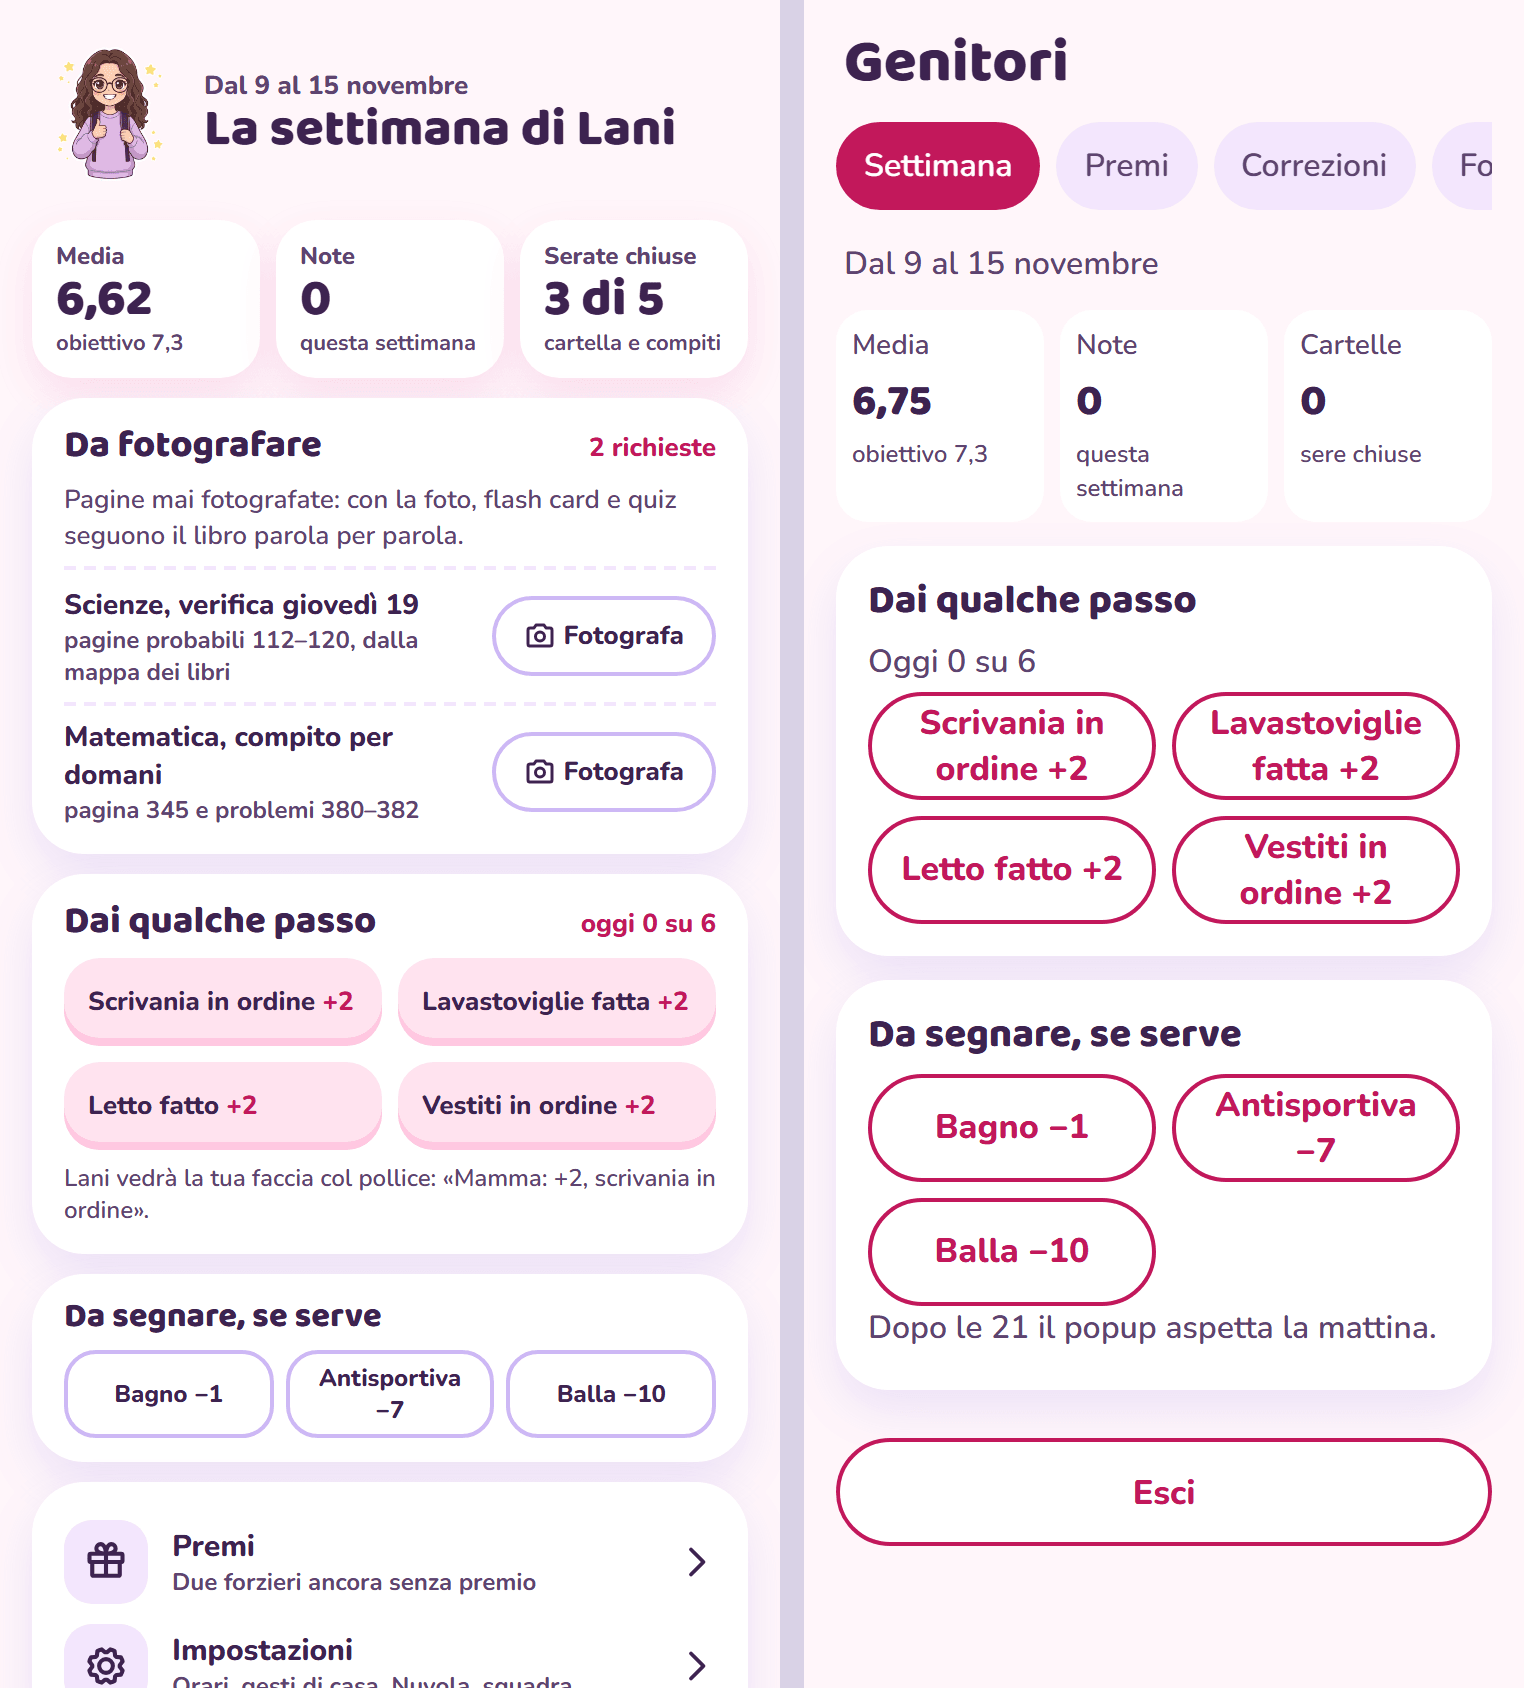
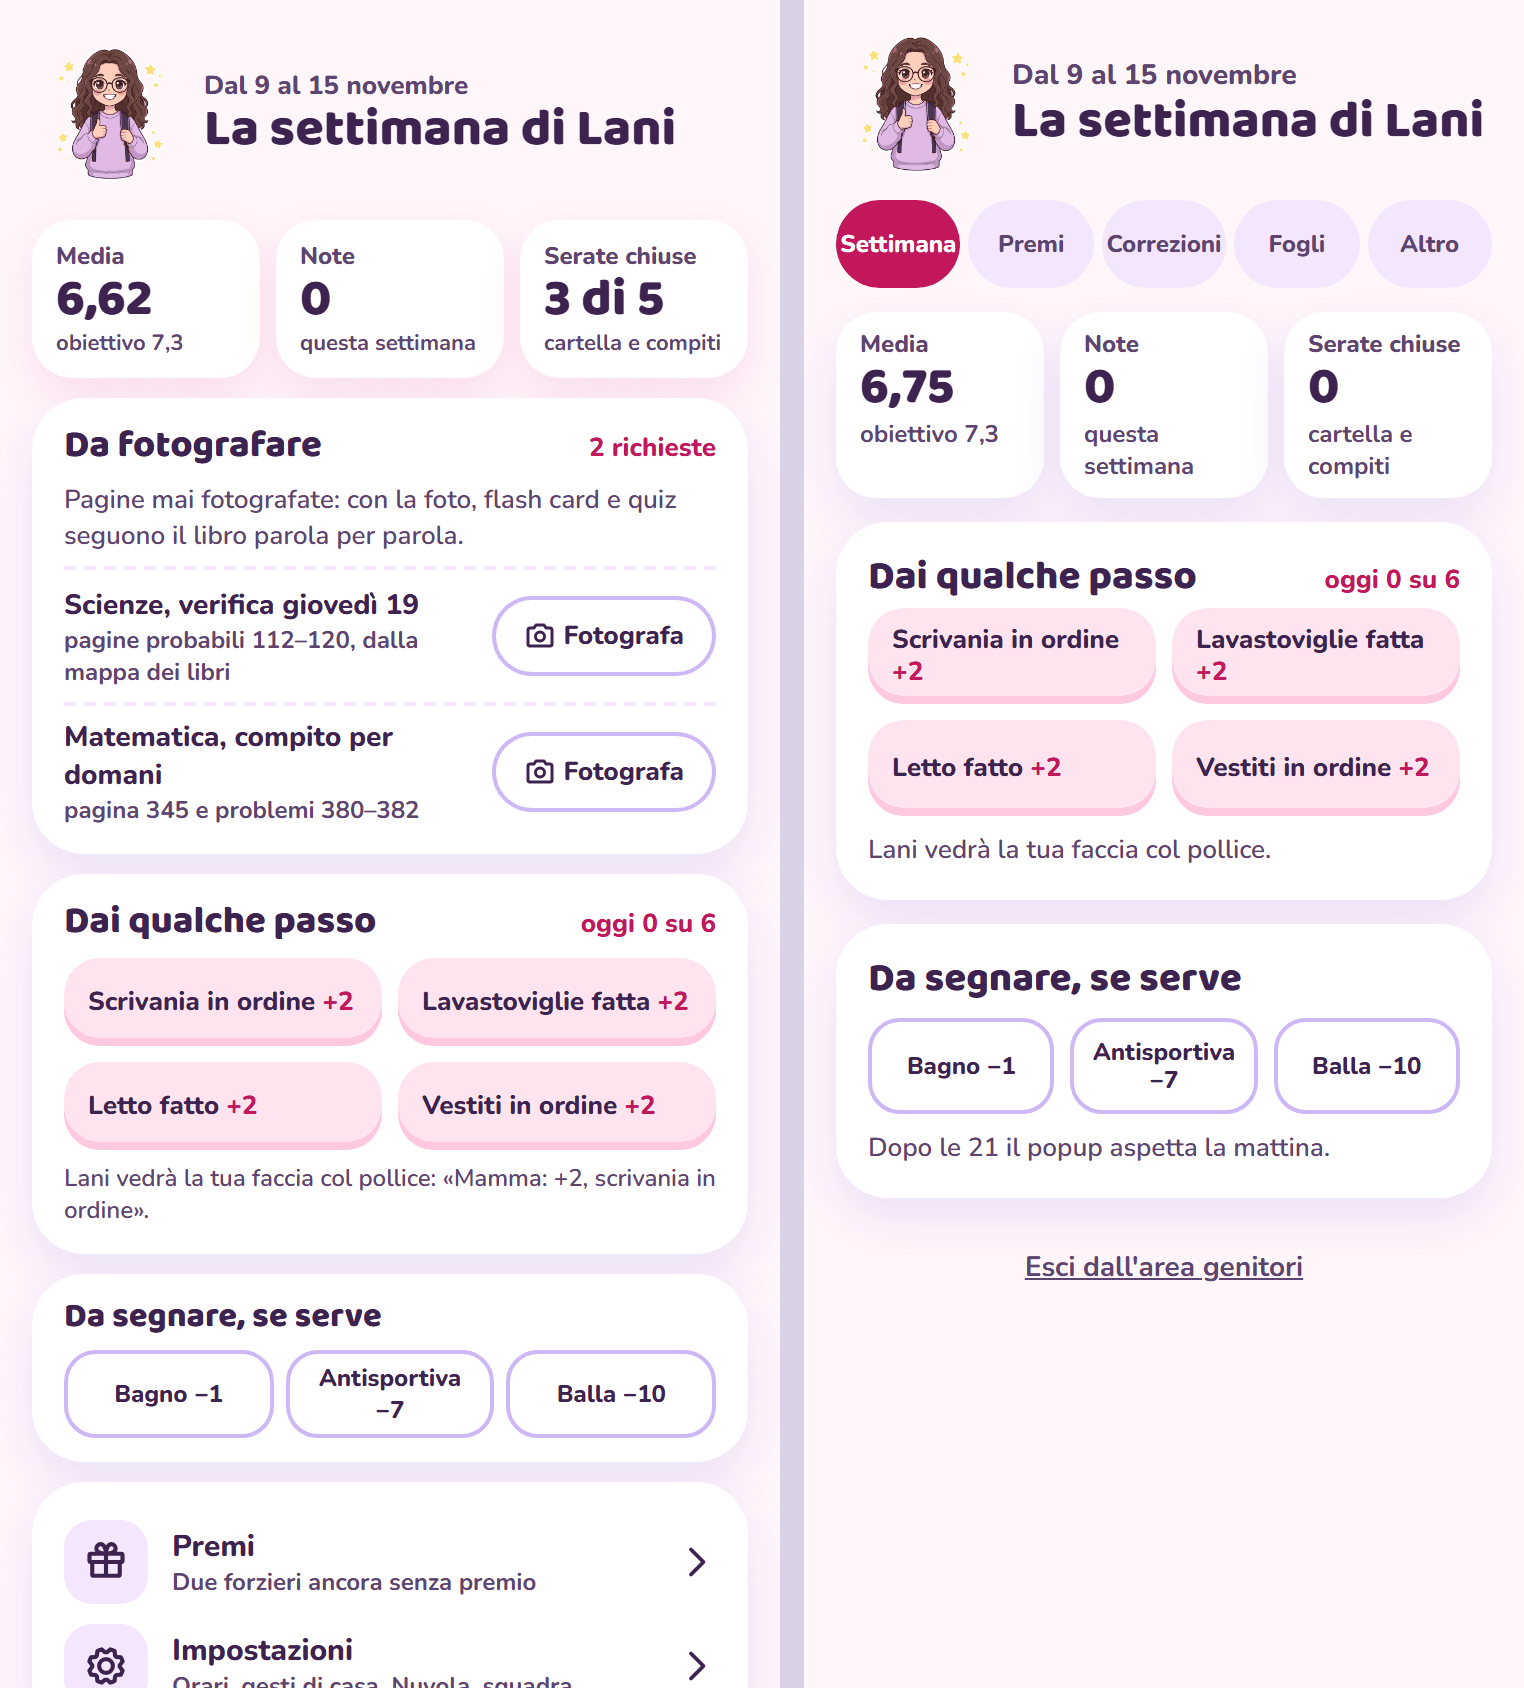
Revisione UI 5 (Genitori): testata, schede, gesti e sgridate, foglio dell'app
- testata del kit: Lani contenta, date della settimana, 'La settimana
  di Lani' (o il nome della sezione)
- 4 schede più 'Altro' (Impostazioni e Vetrina come righe di elenco),
  tutte visibili anche a 360 px
- gesti rosa pieni con il +2 in fucsia, sgridate lilla contornate su tre
  colonne: non si confondono più
- 'Balla', le altre sgridate e 'Togli' delle correzioni con un foglio
  dell'app (<dialog>) al posto di prompt e confirm del browser; Segna
  spento finché il testo della balla è vuoto
- numeri della settimana compatti come la bozza ('Serate chiuse');
  'Esci dall'area genitori' come link

diff --git a/src/Genitori.tsx b/src/Genitori.tsx
@@ -1,4 +1,6 @@
-import { useEffect, useState, type FormEvent } from 'react';
+import { useEffect, useRef, useState, type FormEvent } from 'react';
+import { CaretRight, Eye, GearSix } from '@phosphor-icons/react';
+import { Riquadro, Sticker } from './kit';
 import type { SupabaseClient } from '@supabase/supabase-js';
 import * as R from './lib/regole';
 import { installata } from './Benvenuta';
@@ -10,7 +12,24 @@ import Vetrina from './Vetrina';
 // come genitore e la funzione "passi" decide i passi come per Lani.
 // ponytail: "Da fotografare" (richieste di foto e Storage) è ancora da fare.
 
-type Pagina = 'settimana' | 'premi' | 'correzioni' | 'fogli' | 'impostazioni' | 'vetrina';
+type Pagina = 'settimana' | 'premi' | 'correzioni' | 'fogli' | 'altro' | 'impostazioni' | 'vetrina';
+/** Quattro schede più "Altro" (Impostazioni e Vetrina stanno lì dentro). */
+const SCHEDE: [Pagina, string][] = [
+  ['settimana', 'Settimana'],
+  ['premi', 'Premi'],
+  ['correzioni', 'Correzioni'],
+  ['fogli', 'Fogli'],
+  ['altro', 'Altro'],
+];
+const TITOLI: Record<Pagina, string> = {
+  settimana: 'La settimana di Lani',
+  premi: 'Premi dei forzieri',
+  correzioni: 'Correzioni',
+  fogli: 'Fogli da firmare',
+  altro: 'Altro',
+  impostazioni: 'Impostazioni',
+  vetrina: 'Vetrina',
+};
 const VOCI_GESTI = [
   ['scrivania', 'Scrivania in ordine'],
   ['lavastoviglie', 'Lavastoviglie fatta'],
@@ -54,13 +73,26 @@ export default function Genitori({ client, esci }: { client: SupabaseClient; esc
       />
     );
 
+  const oggi = R.giornoRoma(new Date());
+  const lun = R.lunedi(oggi);
+  const dom = new Date(lun.getFullYear(), lun.getMonth(), lun.getDate() + 6);
+  const vai = (p: Pagina) => (setPagina(p), setAvviso(''));
+  const scheda = pagina === 'impostazioni' || pagina === 'vetrina' ? 'altro' : pagina;
   return (
     <section className="sera genitori">
-      <h1>Genitori</h1>
+      <header className="testa-genitori">
+        <Sticker posa="lani-contenta" misura={72} />
+        <div>
+          <p className="sopratitolo">
+            Dal {lun.getDate()} al {dom.getDate()} {MESI[dom.getMonth()]}
+          </p>
+          <h1>{TITOLI[pagina]}</h1>
+        </div>
+      </header>
       <nav className="schede" aria-label="Sezioni genitori">
-        {(['settimana', 'premi', 'correzioni', 'fogli', 'impostazioni', 'vetrina'] as Pagina[]).map((p) => (
-          <button key={p} aria-current={p === pagina ? 'page' : undefined} onClick={() => (setPagina(p), setAvviso(''))}>
-            {p.replace(/^./, (c) => c.toUpperCase())}
+        {SCHEDE.map(([p, nome]) => (
+          <button key={p} aria-current={p === scheda ? 'page' : undefined} onClick={() => vai(p)}>
+            {nome}
           </button>
         ))}
       </nav>
@@ -69,14 +101,85 @@ export default function Genitori({ client, esci }: { client: SupabaseClient; esc
       {pagina === 'premi' && <Premi {...props} />}
       {pagina === 'correzioni' && <Correzioni {...props} />}
       {pagina === 'fogli' && <Fogli {...props} />}
+      {pagina === 'altro' && <Altro vai={vai} />}
       {pagina === 'impostazioni' && <Impostazioni {...props} />}
       {pagina === 'vetrina' && <Vetrina />}
-      <button className="secondario" onClick={esci}>Esci</button>
+      <button className="link esci" onClick={esci}>
+        Esci dall'area genitori
+      </button>
     </section>
   );
 }
 
 type Props = { client: SupabaseClient; passi: (tipo: string, id: string) => Promise<number>; avvisa: (s: string) => void };
+
+/** "Altro": Impostazioni e Vetrina, come le righe della bozza. */
+function Altro({ vai }: { vai: (p: Pagina) => void }) {
+  const righe: [Pagina, string, string, typeof GearSix][] = [
+    ['impostazioni', 'Impostazioni', 'Orari, materiale, PIN', GearSix],
+    ['vetrina', 'Vetrina', 'Popup, animazioni e notifiche, come li vede Lani', Eye],
+  ];
+  return (
+    <div className="carta elenco">
+      {righe.map(([p, nome, testo, Icona]) => (
+        <button key={p} className="riga-elenco" onClick={() => vai(p)}>
+          <Riquadro colore="lilla">
+            <Icona size={24} weight="bold" aria-hidden />
+          </Riquadro>
+          <span>
+            <b>{nome}</b>
+            <small>{testo}</small>
+          </span>
+          <CaretRight size={20} weight="bold" aria-hidden />
+        </button>
+      ))}
+    </div>
+  );
+}
+
+/** Foglio dell'app al posto di confirm/prompt del browser: conferma, con un campo di testo se serve. */
+function FoglioApp({ titolo, testo, campo, azione = 'Segna', conferma, chiudi }: { titolo: string; testo: string; campo?: string; azione?: string; conferma: (nota: string | null) => void; chiudi: () => void }) {
+  const ref = useRef<HTMLDialogElement>(null);
+  const [nota, setNota] = useState('');
+  useEffect(() => {
+    if (ref.current && !ref.current.open) ref.current.showModal?.();
+  }, []);
+  return (
+    <dialog
+      ref={ref}
+      className="velo foglio-app"
+      aria-labelledby="foglio-titolo"
+      onCancel={(e) => {
+        e.preventDefault();
+        chiudi();
+      }}
+    >
+      <form
+        className="carta modulo"
+        onSubmit={(e) => {
+          e.preventDefault();
+          if (campo && !nota.trim()) return;
+          conferma(campo ? nota.trim() : null);
+        }}
+      >
+        <h2 id="foglio-titolo">{titolo}</h2>
+        <p>{testo}</p>
+        {campo && (
+          <label>
+            {campo}
+            <textarea rows={3} value={nota} onChange={(e) => setNota(e.target.value)} autoFocus />
+          </label>
+        )}
+        <button className="principale" disabled={!!campo && !nota.trim()}>
+          {azione}
+        </button>
+        <button type="button" className="link" onClick={chiudi}>
+          Annulla
+        </button>
+      </form>
+    </dialog>
+  );
+}
 
 function Settimana({ client, passi, avvisa }: Props) {
   const oggi = R.giornoRoma(new Date());
@@ -113,12 +216,9 @@ function Settimana({ client, passi, avvisa }: Props) {
     carica();
   }
 
-  async function sgrida(tipo: string, nome: string) {
-    let nota: string | null = null;
-    if (tipo === 'balla') {
-      nota = window.prompt('Che cosa ha detto di non vero? (lo legge Lani)');
-      if (!nota) return;
-    } else if (!window.confirm(`Segnare "${nome}"? Lani perde passi e vede il popup.`)) return;
+  const [chiede, setChiede] = useState<{ tipo: R.TipoSgridata; nome: string }>();
+  async function sgrida(tipo: string, nome: string, nota: string | null) {
+    setChiede(undefined);
     const { data, error } = await client.from('sgridate').insert({ tipo, nota }).select('id').single();
     if (error || !data) return avvisa('Non salvato. Riprova.');
     const p = await passi('sgridata', data.id);
@@ -130,9 +230,6 @@ function Settimana({ client, passi, avvisa }: Props) {
   const tetto = R.CONFIG.passi.gesti_casa.tetto_giornaliero;
   return (
     <>
-      <p className="nota">
-        Dal {lun.getDate()} al {dom.getDate()} {MESI[dom.getMonth()]}
-      </p>
       <dl className="numeri">
         <div>
           <dt>Media</dt>
@@ -145,35 +242,47 @@ function Settimana({ client, passi, avvisa }: Props) {
           <dt>questa settimana</dt>
         </div>
         <div>
-          <dt>Cartelle</dt>
+          <dt>Serate chiuse</dt>
           <dd>{d.serate}</dd>
-          <dt>sere chiuse</dt>
+          <dt>cartella e compiti</dt>
         </div>
       </dl>
       <div className="carta">
-        <h2>Dai qualche passo</h2>
-        <p className="nota">
-          Oggi {d.gestiOggi} su {tetto}
-        </p>
+        <div className="testa-carta">
+          <h2>Dai qualche passo</h2>
+          <span className="valore">
+            oggi {d.gestiOggi} su {tetto}
+          </span>
+        </div>
         <div className="griglia">
           {VOCI_GESTI.map(([v, nome]) => (
-            <button key={v} className="secondario" disabled={d.gestiOggi >= tetto} onClick={() => gesto(v, nome)}>
-              {nome} +{R.CONFIG.passi.gesti_casa.voci[v]}
+            <button key={v} className="gesto" disabled={d.gestiOggi >= tetto} onClick={() => gesto(v, nome)}>
+              {nome} <span>+{R.CONFIG.passi.gesti_casa.voci[v]}</span>
             </button>
           ))}
         </div>
+        <p className="nota piccola">Lani vedrà la tua faccia col pollice.</p>
       </div>
       <div className="carta">
         <h2>Da segnare, se serve</h2>
-        <div className="griglia">
+        <div className="griglia tre">
           {SGRIDATE.map(([t, nome]) => (
-            <button key={t} className="secondario" onClick={() => sgrida(t, nome)}>
+            <button key={t} className="sgridata" onClick={() => setChiede({ tipo: t, nome })}>
               {nome} {String(R.passiSgridata(t)).replace('-', '−')}
             </button>
           ))}
         </div>
-        <p className="nota">Dopo le 21 il popup aspetta la mattina.</p>
+        <p className="nota piccola">Dopo le 21 il popup aspetta la mattina.</p>
       </div>
+      {chiede && (
+        <FoglioApp
+          titolo={`${chiede.nome} ${String(R.passiSgridata(chiede.tipo)).replace('-', '−')}`}
+          testo={chiede.tipo === 'balla' ? 'Scrivi che cosa ha detto di non vero: Lani lo leggerà nel popup.' : 'Lani perde i passi e vede il popup.'}
+          campo={chiede.tipo === 'balla' ? 'Che cosa non era vero' : undefined}
+          conferma={(nota) => sgrida(chiede.tipo, chiede.nome, nota)}
+          chiudi={() => setChiede(undefined)}
+        />
+      )}
     </>
   );
 }
@@ -273,8 +382,9 @@ function Correzioni({ client, avvisa }: Props) {
     carica();
   }, []);
 
+  const [chiede, setChiede] = useState<Spuntato>();
   async function togli(c: Spuntato) {
-    if (!window.confirm('Togliere la spunta? Lani perde i passi di questo compito e vede chi l’ha corretta.')) return;
+    setChiede(undefined);
     const { data: stornato, error } = await client.rpc('storna_spunta', { p_motivo: 'compito', p_riferimento: c.id });
     if (error) return avvisa('Correzione non riuscita.');
     const { data: u } = await client.auth.getUser();
@@ -299,11 +409,20 @@ function Correzioni({ client, avvisa }: Props) {
                 <br />
                 <small>{GIORNI[g.getDay()]}</small>
               </span>
-              <button className="secondario stretto" onClick={() => togli(c)}>Togli</button>
+              <button className="secondario stretto" onClick={() => setChiede(c)}>Togli</button>
             </li>
           );
         })}
       </ul>
+      {chiede && (
+        <FoglioApp
+          titolo="Togliere la spunta?"
+          azione="Togli"
+          testo="Lani perde i passi di questo compito e vede chi l’ha corretta."
+          conferma={() => togli(chiede)}
+          chiudi={() => setChiede(undefined)}
+        />
+      )}
     </div>
   );
 }

diff --git a/src/stile.css b/src/stile.css
@@ -468,3 +468,35 @@ dialog.velo:focus { outline: none; }
 
 /* Sera: "L'ho dato" su una riga */
 .foglio .secondario.compatto { flex: none; white-space: nowrap; margin-top: 0; align-self: center; }
+
+/* Genitori (bozza Genitori): testata, gesti rosa pieni, sgridate contornate, foglio dell'app */
+.testa-genitori { display: flex; align-items: center; gap: 12px; padding-left: 4px; }
+.testa-genitori > div { display: flex; flex-direction: column; }
+.testa-genitori .sopratitolo { min-height: 0; display: block; font: 800 14px Nunito, sans-serif; }
+.genitori .testa-genitori h1 { margin: 0; font-size: 26px; line-height: 1.1; }
+.gesto { min-height: 48px; padding: 8px 12px; border: 0; border-radius: 18px; background: var(--rosa); color: var(--testo); font: 800 14px/1.25 Nunito, sans-serif; text-align: left; box-shadow: inset 0 -4px 0 var(--rosa-bordo); }
+.gesto span { color: var(--accento); white-space: nowrap; }
+.gesto:disabled { background: var(--lilla); box-shadow: none; color: var(--testo-2); }
+.gesto:disabled span { color: var(--testo-2); }
+.griglia.tre { grid-template-columns: repeat(3, minmax(0, 1fr)); }
+.sgridata { min-height: 48px; padding: 4px 8px; border: 2px solid var(--lilla-medio); border-radius: 16px; background: #fff; color: var(--testo); font: 800 14px/1.2 Nunito, sans-serif; }
+.elenco { display: flex; flex-direction: column; padding: 8px 16px; }
+.riga-elenco { display: flex; align-items: center; gap: 12px; min-height: 64px; padding: 8px 0; border: 0; border-top: 2px dashed var(--lilla); background: none; color: var(--testo); text-align: left; font: inherit; }
+.riga-elenco:first-child { border-top: 0; }
+.riga-elenco > span { flex: 1; display: flex; flex-direction: column; }
+.riga-elenco b { font-size: 16px; }
+.riga-elenco small { font-size: 13px; color: var(--testo-2); }
+.esci { align-self: center; justify-self: center; padding: 0 16px; color: var(--testo-2); font: 700 14px Nunito, sans-serif; }
+.foglio-app { align-items: end; padding: 24px 16px calc(24px + env(safe-area-inset-bottom)); }
+.foglio-app .carta { width: min(100%, 398px); margin: 0 auto; border-radius: 26px; box-shadow: var(--ombra-popup); }
+.foglio-app h2 { margin: 0; font-size: 20px; }
+.foglio-app p { margin: 0; color: var(--testo-2); }
+.genitori .schede { display: grid; grid-template-columns: repeat(5, minmax(0, 1fr)); gap: 4px; overflow: visible; padding-bottom: 0; }
+.genitori .schede button { padding: 0 2px; font: 800 12px Nunito, sans-serif; }
+.genitori .numeri div { display: flex; flex-direction: column; gap: 0; padding: 8px 12px; border-radius: 20px; box-shadow: var(--ombra); }
+.genitori .numeri dt { font: 800 12px Nunito, sans-serif; color: var(--testo-2); }
+.genitori .numeri dd { font: 800 26px/1.1 'Baloo 2', Nunito, sans-serif; }
+.genitori .numeri dt:last-child { font: 700 12px Nunito, sans-serif; }
+.genitori .gesto { font-size: 13px; }
+.genitori .sgridata { font-size: 12px; }
+.genitori .carta .nota.piccola { margin: 8px 0 0; }

diff --git a/e2e/genitori.e2e.ts b/e2e/genitori.e2e.ts
@@ -25,18 +25,23 @@ function dati() {
 
 test.beforeEach(async ({ page }) => {
   await page.clock.setFixedTime(new Date('2026-11-10T18:00:00+01:00'));
-  page.on('dialog', (d) => d.accept(d.type() === 'prompt' ? 'ha detto di aver studiato' : undefined));
 });
 
 test('settimana: gesti di casa e sgridate chiamano i passi', async ({ page }) => {
   const { t, chiamate } = await finto(page, dati());
   await page.goto('/');
-  await expect(page.getByRole('heading', { name: 'Genitori' })).toBeVisible();
+  await expect(page.getByRole('heading', { name: 'La settimana di Lani' })).toBeVisible();
   await expect(page.locator('.numeri')).toContainText('6,75');
   await page.getByRole('button', { name: 'Scrivania in ordine +2' }).click();
   await expect(page.getByRole('status')).toContainText('Scrivania in ordine');
   expect(t.gesti_casa[0]).toMatchObject({ voce: 'scrivania' });
   await page.getByRole('button', { name: 'Balla −10' }).click();
+  // foglio dell'app al posto del prompt del browser: Segna resta spento finché il campo è vuoto
+  const foglio = page.getByRole('dialog');
+  await expect(foglio.getByRole('button', { name: 'Segna' })).toBeDisabled();
+  await foglio.getByLabel('Che cosa non era vero').fill('ha detto di aver studiato');
+  await foglio.getByRole('button', { name: 'Segna' }).click();
+  await expect(foglio).toHaveCount(0);
   await expect.poll(() => t.sgridate[0]).toMatchObject({ tipo: 'balla', nota: 'ha detto di aver studiato' });
   await expect.poll(() => chiamate.map((c) => c.tipo)).toEqual(['gesto', 'sgridata']);
   await page.screenshot({ path: 'e2e/risultati/genitori.png', fullPage: true });
@@ -59,6 +64,7 @@ test('correzioni e fogli', async ({ page }) => {
   await page.goto('/');
   await page.getByRole('button', { name: 'Correzioni' }).click();
   await page.getByRole('button', { name: 'Togli' }).click();
+  await page.getByRole('dialog').getByRole('button', { name: 'Togli' }).click();
   await expect(page.getByRole('status')).toContainText('Spunta tolta');
   expect(t.compiti[0].fatto_il).toBeNull();
   await page.getByRole('button', { name: 'Fogli' }).click();

diff --git a/e2e/vetrina.e2e.ts b/e2e/vetrina.e2e.ts
@@ -12,7 +12,8 @@ async function apriVetrina(page: Page) {
   await page.clock.setFixedTime(new Date('2026-11-10T18:00:00+01:00'));
   await finto(page, { profili: PAPA, voti: [], impostazioni: [], note: [], serate: [], movimenti_passi: [] });
   await page.goto('/');
-  await page.getByRole('button', { name: 'Vetrina' }).click();
+  await page.getByRole('button', { name: 'Altro' }).click();
+  await page.getByRole('button', { name: /^Vetrina/ }).click();
   return scritture;
 }
 
